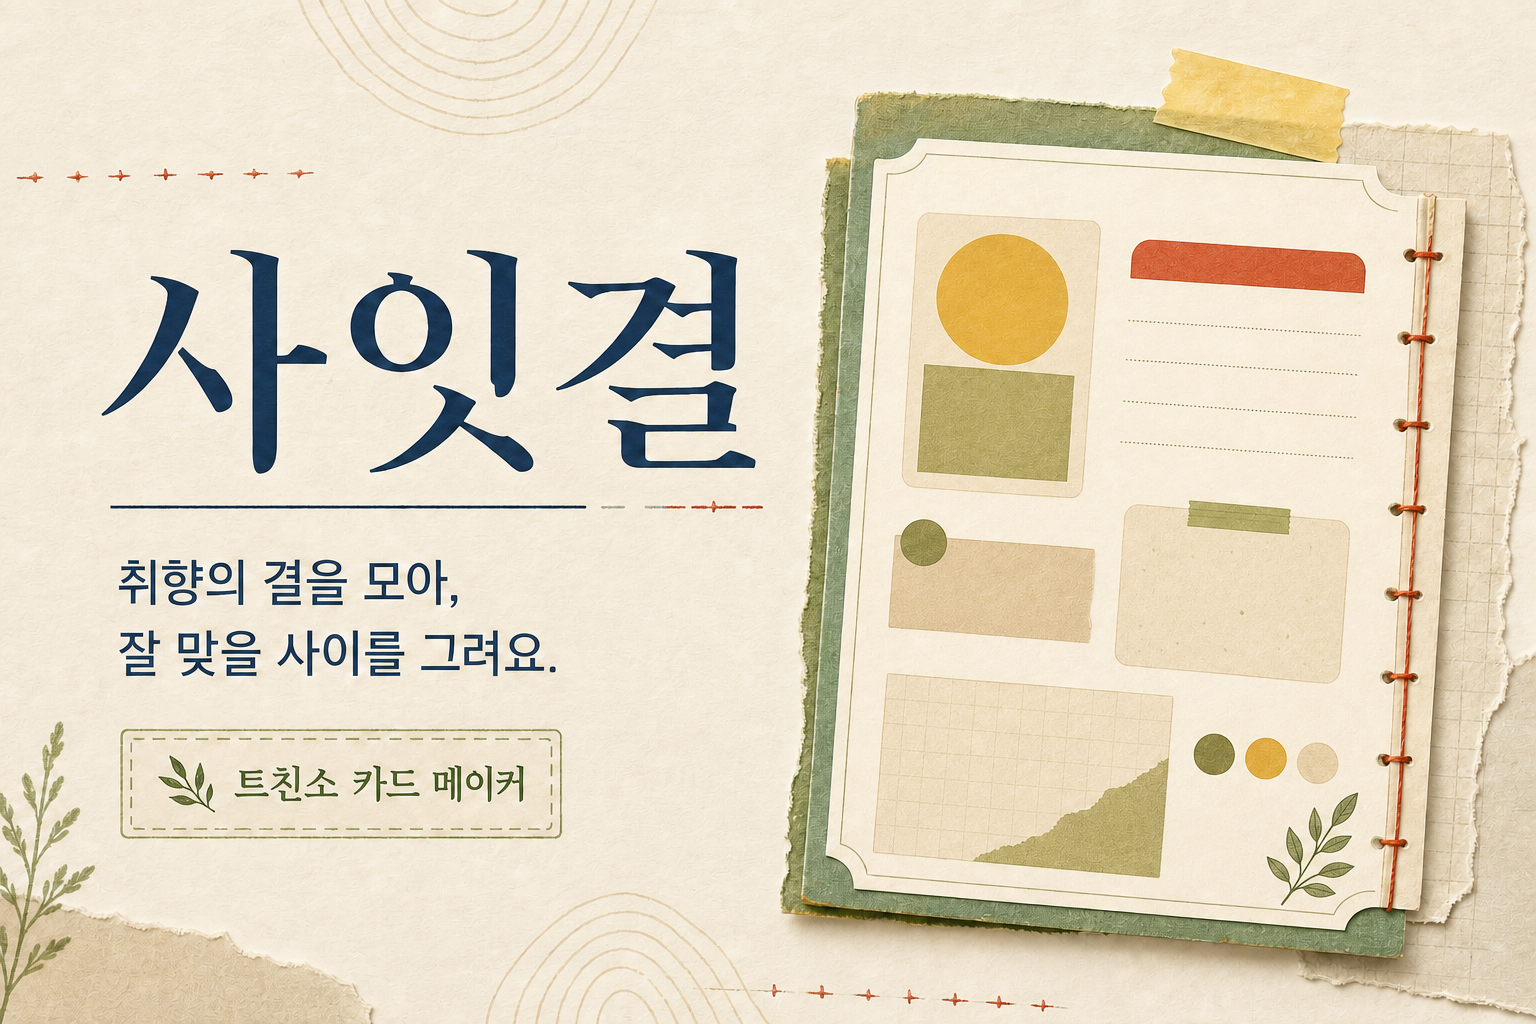
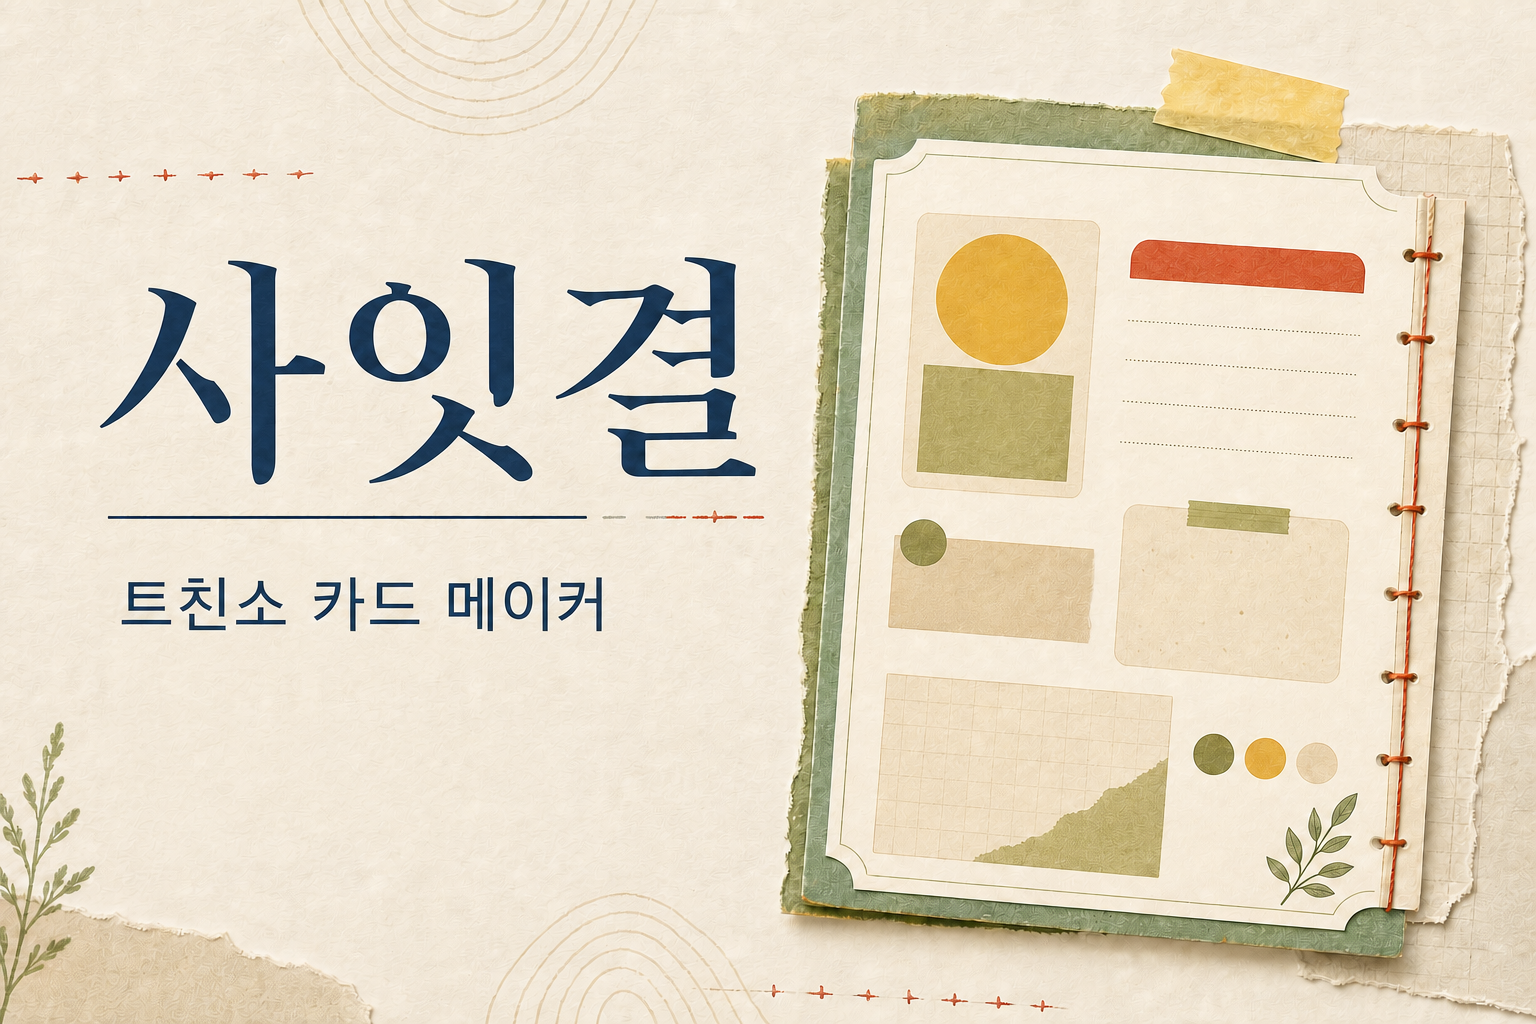
Refresh social preview card

diff --git a/app/layout.tsx b/app/layout.tsx
@@ -18,14 +18,13 @@ export async function generateMetadata(): Promise<Metadata> {
 
   return {
     metadataBase: baseUrl,
-    title: "사잇결 — 취향으로 잇는 트친소 카드",
-    description:
-      "보여주고 싶은 취향과 편안한 관계의 방식을 한 장에 담는 트친소 카드 제작기.",
+    title: "사잇결",
+    description: "트친소 카드 메이커",
     applicationName: "사잇결",
     keywords: ["트친소", "트친소표", "트친소 카드", "친구 소개", "사잇결"],
     openGraph: {
-      title: "사잇결 — 취향으로 잇는 트친소 카드",
-      description: "취향의 결을 모아, 잘 맞을 사이를 그려요.",
+      title: "사잇결",
+      description: "트친소 카드 메이커",
       type: "website",
       locale: "ko_KR",
       siteName: "사잇결",
@@ -34,14 +33,14 @@ export async function generateMetadata(): Promise<Metadata> {
           url: socialImage,
           width: 1536,
           height: 1024,
-          alt: "사잇결 — 취향의 결을 모아, 잘 맞을 사이를 그려요.",
+          alt: "사잇결 — 트친소 카드 메이커",
         },
       ],
     },
     twitter: {
       card: "summary_large_image",
-      title: "사잇결 — 취향으로 잇는 트친소 카드",
-      description: "취향의 결을 모아, 잘 맞을 사이를 그려요.",
+      title: "사잇결",
+      description: "트친소 카드 메이커",
       images: [socialImage],
     },
   };
